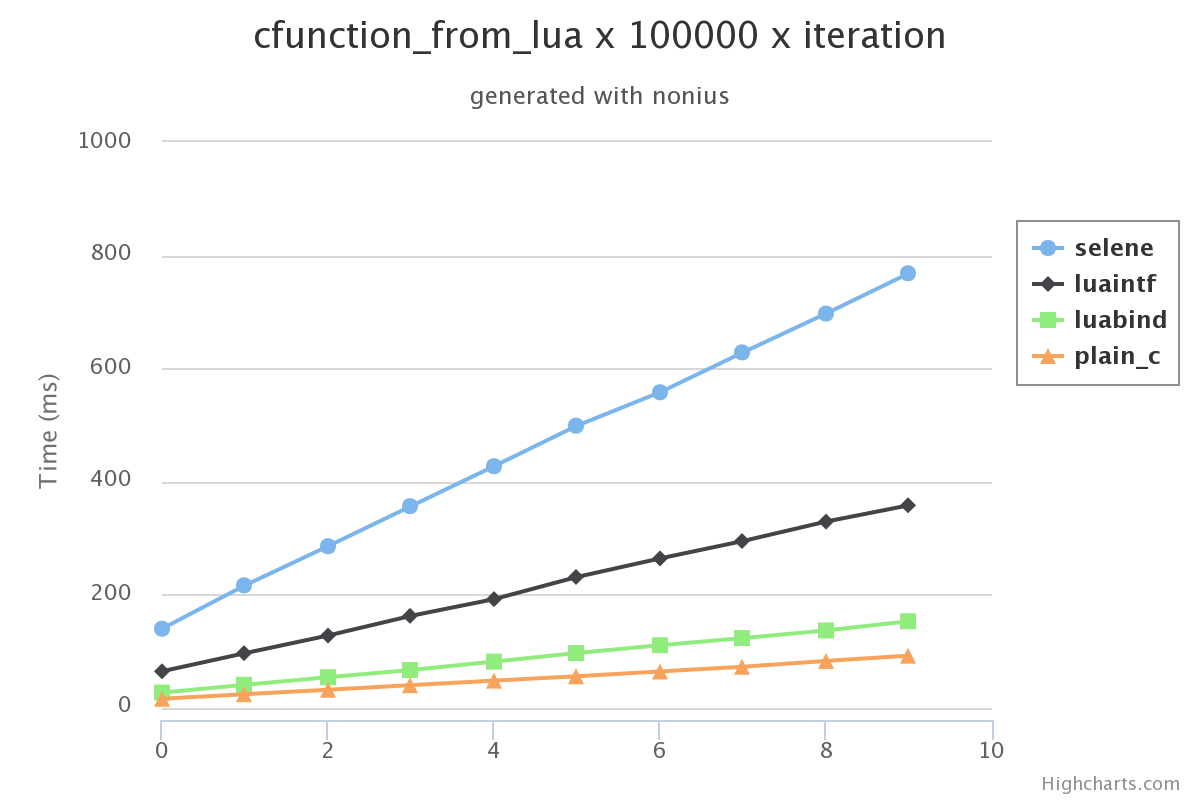
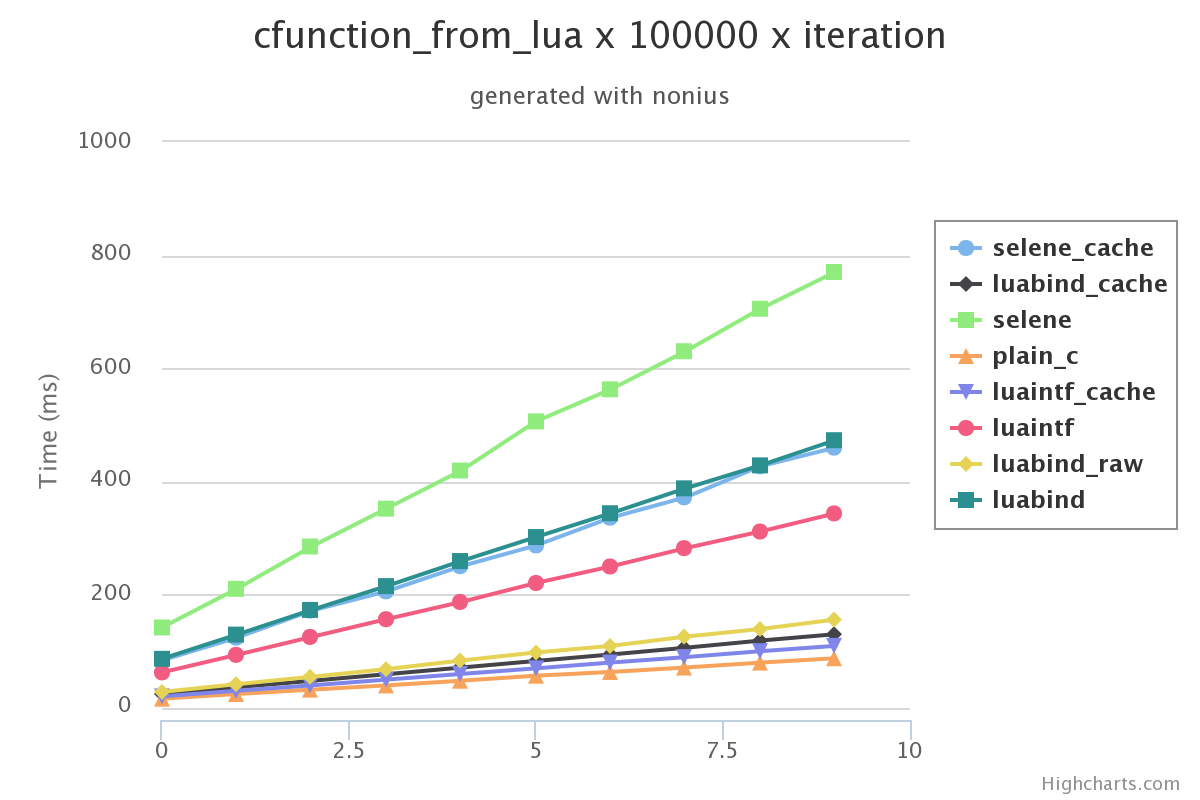
by request added comparison cached/noncached performance

diff --git a/results/cfunction_from_lua.html b/results/cfunction_from_lua.html
@@ -501,20 +501,36 @@ $(function () {
                 }
             },
             series: [{
+                        name: 'selene_cache',
+                        data: [[83.304000000000002],[123.434],[171.238],[205.28399999999999],[249.83000000000001],[286.49900000000002],[335.63900000000001],[371.65300000000002],[426.49200000000002],[459.52300000000002],]
+                    },
+                    {
+                        name: 'luabind_cache',
+                        data: [[23.803000000000001],[35.786999999999999],[47.188000000000002],[58.804000000000002],[70.573999999999998],[82.260999999999996],[93.701999999999998],[105.608],[118.276],[129.554],]
+                    },
+                    {
                         name: 'selene',
-                        data: [[139.69399999999999],[216.404],[285.52600000000001],[356.38099999999997],[426.923],[498.57900000000001],[557.63400000000001],[628.07600000000002],[696.74000000000001],[767.94299999999998],]
-                    },
-                    {
-                        name: 'luaintf',
-                        data: [[64.466999999999999],[96.509],[127.66200000000001],[162.47499999999999],[191.97800000000001],[231.20599999999999],[263.92200000000003],[294.71800000000002],[329.03300000000002],[357.88999999999999],]
-                    },
-                    {
-                        name: 'luabind',
-                        data: [[26.853999999999999],[40.612000000000002],[54.003],[66.763999999999996],[81.611000000000004],[96.810000000000002],[110.53700000000001],[123.176],[136.643],[153.001],]
+                        data: [[141.50700000000001],[209.83000000000001],[284.72300000000001],[351.59500000000003],[419.00099999999998],[505.91699999999997],[562.66300000000001],[629.97799999999995],[705.12199999999996],[770.11300000000006],]
                     },
                     {
                         name: 'plain_c',
-                        data: [[15.984],[23.992999999999999],[31.832999999999998],[40.002000000000002],[47.966000000000001],[55.695],[64.188999999999993],[72.533000000000001],[82.780000000000001],[92.099999999999994],]
+                        data: [[15.574999999999999],[23.814],[31.585000000000001],[39.030000000000001],[47.334000000000003],[56.198999999999998],[62.798999999999999],[70.673000000000002],[79.346000000000004],[87.046999999999997],]
+                    },
+                    {
+                        name: 'luaintf_cache',
+                        data: [[19.602],[29.542000000000002],[39.093000000000004],[49.228000000000002],[59.323],[69.204999999999998],[79.438000000000002],[89.028000000000006],[99.510999999999996],[108.92100000000001],]
+                    },
+                    {
+                        name: 'luaintf',
+                        data: [[62.048999999999999],[93.066999999999993],[124.755],[156.14699999999999],[186.59299999999999],[220.14500000000001],[249.35599999999999],[281.779],[311.14299999999997],[343.22800000000001],]
+                    },
+                    {
+                        name: 'luabind_raw',
+                        data: [[27.478999999999999],[41.212000000000003],[54.311999999999998],[67.796000000000006],[83.058999999999997],[97.293999999999997],[108.825],[125.303],[138.74299999999999],[155.46899999999999],]
+                    },
+                    {
+                        name: 'luabind',
+                        data: [[86.012],[128.82300000000001],[172.53800000000001],[214.595],[258.93099999999998],[301.34100000000001],[343.47699999999998],[387.50200000000001],[428.149],[472.62599999999998],]
                     },
                     
             ]

diff --git a/bechmark/main.cpp b/bechmark/main.cpp
@@ -123,11 +123,32 @@ namespace bench_cfunction_from_lua {
 		}
 
 		nonius::benchmark benchmarks[] = {
-			nonius::benchmark("selene", [&sel_state] {
+			nonius::benchmark("selene_cache", [&sel_state] {
+				int result = 0;
+				static size_t iteration_index = 1;
+				auto func = sel_state["test"];
+				for (size_t i = 0, end = NUM_ITERATIONS*iteration_index; i < end; ++i) {
+					result += (int)func(42);
+				}
+				++iteration_index;
+				return result;
+			})
+			,nonius::benchmark("selene", [&sel_state] {
 				int result = 0;
 				static size_t iteration_index = 1;
 				for (size_t i = 0, end = NUM_ITERATIONS*iteration_index; i < end; ++i) {
 					result += (int)sel_state["test"](42);
+				}
+				++iteration_index;
+				return result;
+			})
+			,nonius::benchmark("luaintf_cache", [&luaintf] {
+				int result = 0;
+				static size_t iteration_index = 1;
+				LuaIntf::LuaRef func(luaintf.state(), "luaintf.test");
+				for (size_t i = 0, end = NUM_ITERATIONS*iteration_index; i < end; ++i) {					
+					int rv = func.call<int, int>(42);
+					result += rv;
 				}
 				++iteration_index;
 				return result;
@@ -138,18 +159,38 @@ namespace bench_cfunction_from_lua {
 				for (size_t i = 0, end = NUM_ITERATIONS*iteration_index; i < end; ++i) {
 					LuaIntf::LuaRef func(luaintf.state(), "luaintf.test");
 					int rv = func.call<int, int>(42);
-					//func(42);
 					result += rv;
 				}
 				++iteration_index;
 				return result;
 			})
-			,
-			nonius::benchmark("luabind", [luabind_L] {
+			, nonius::benchmark("luabind_raw", [luabind_L] {
 				int result = 0;
 				static size_t iteration_index = 1;
 				for (size_t i = 0, end = NUM_ITERATIONS*iteration_index; i < end; ++i) {
-					int rv = luabind::call_function<int>(luabind_L, "test", 42);
+					int rv = luabind::call_function<int>(luabind_L, "test", 42);					
+					result += rv;
+				}
+				++iteration_index;
+				return result;
+			})
+			, nonius::benchmark("luabind_cache", [luabind_L] {
+				int result = 0;
+				static size_t iteration_index = 1;
+				luabind::object func = luabind::globals(luabind_L)["test"];//(42);
+				for (size_t i = 0, end = NUM_ITERATIONS*iteration_index; i < end; ++i) {
+					int rv = luabind::call_function<int>(func, 42);
+					result += rv;
+				}
+				++iteration_index;
+				return result;
+			})
+			, nonius::benchmark("luabind", [luabind_L] {
+				int result = 0;
+				static size_t iteration_index = 1;
+				for (size_t i = 0, end = NUM_ITERATIONS*iteration_index; i < end; ++i) {
+					luabind::object func = luabind::globals(luabind_L)["test"];
+					int rv = luabind::call_function<int>(func, 42);
 					result += rv;
 				}
 				++iteration_index;
